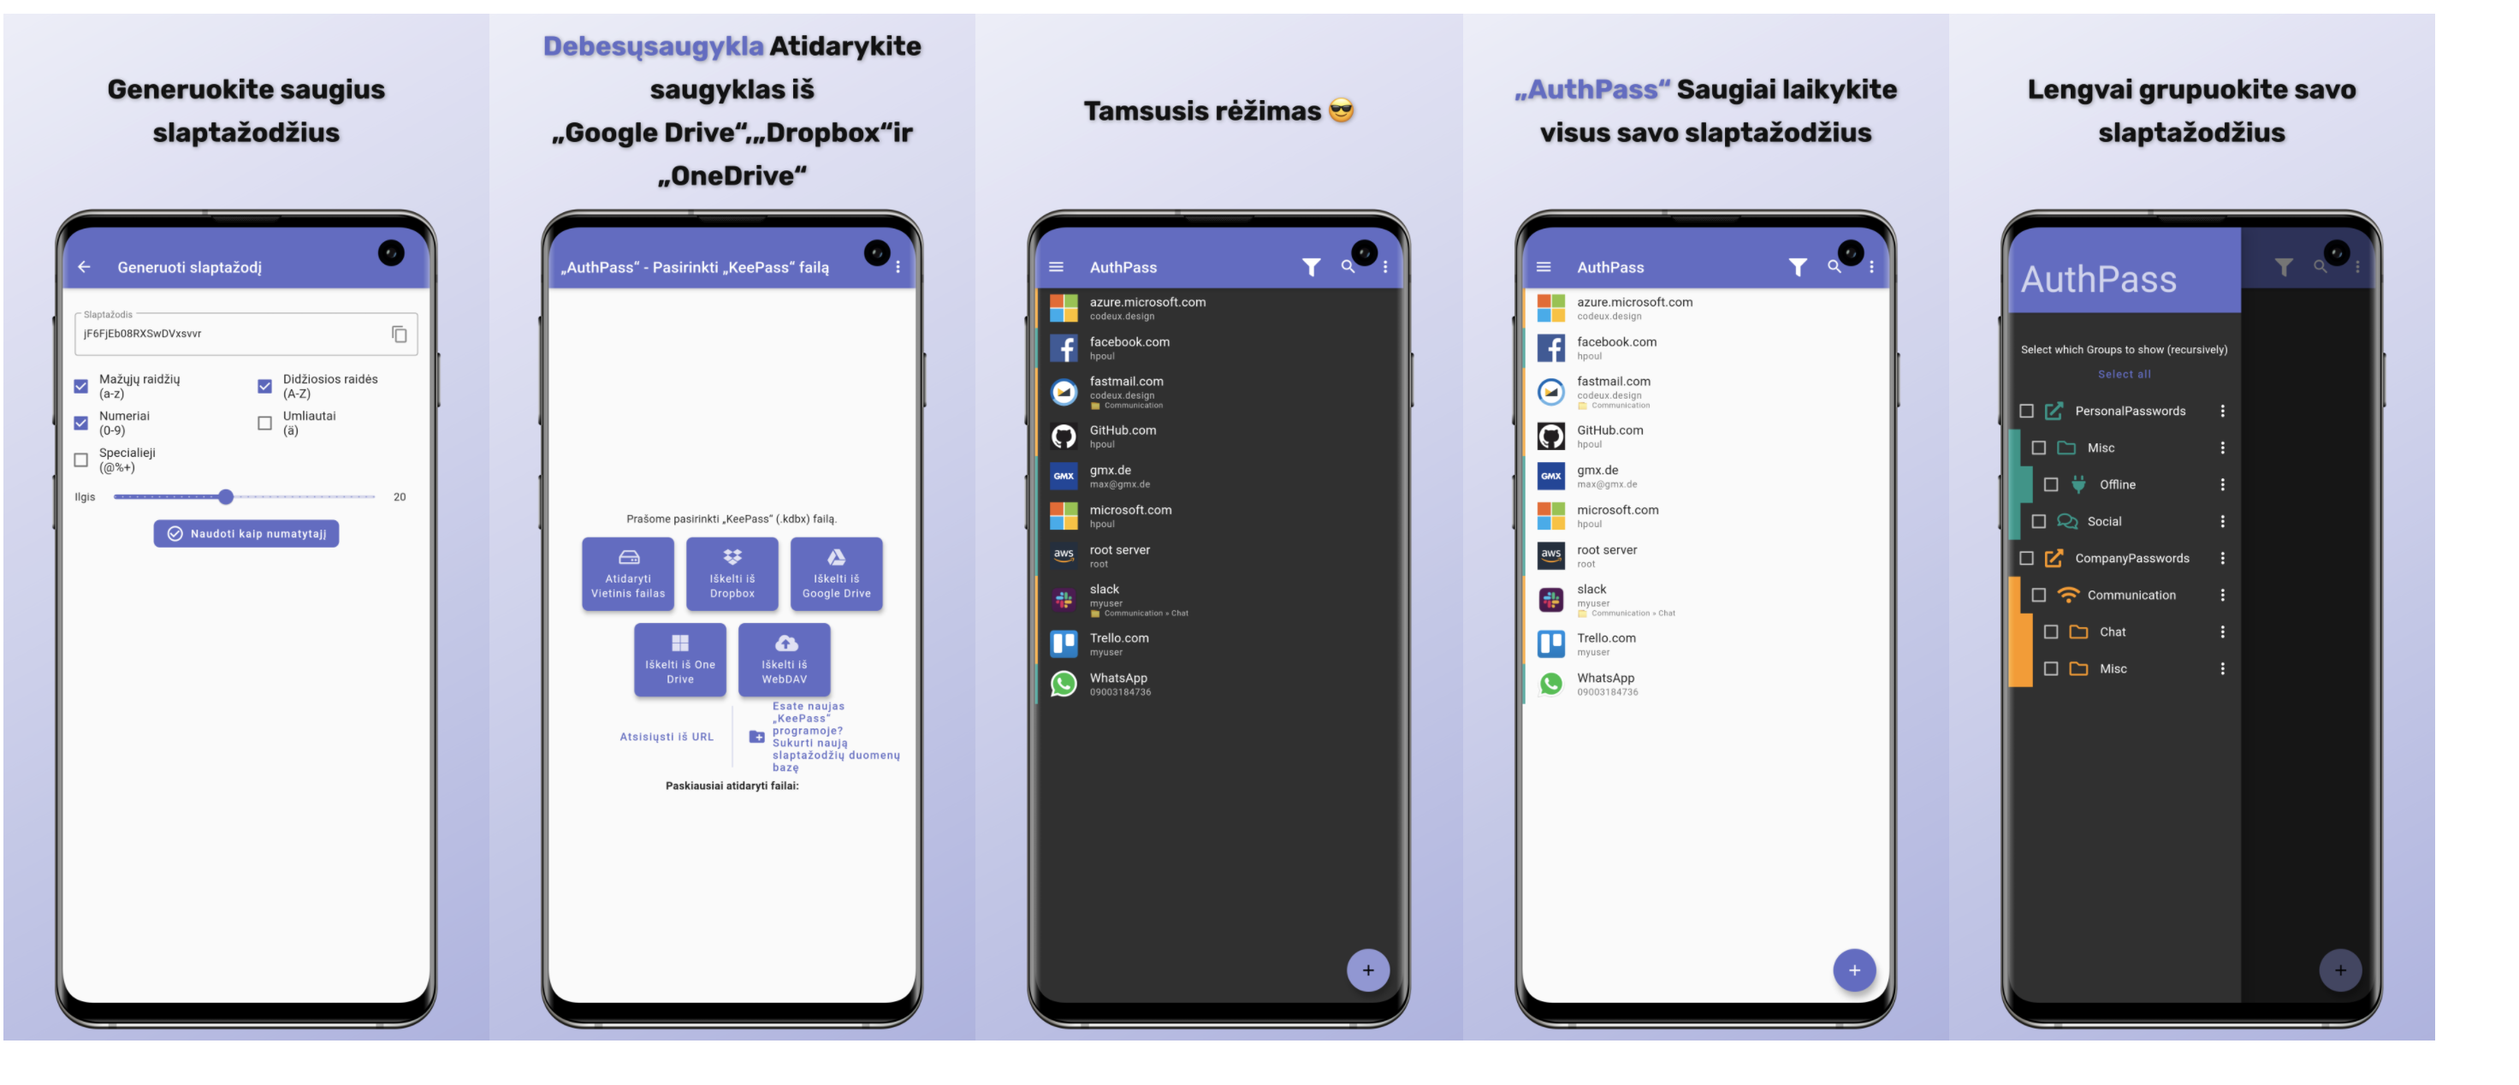
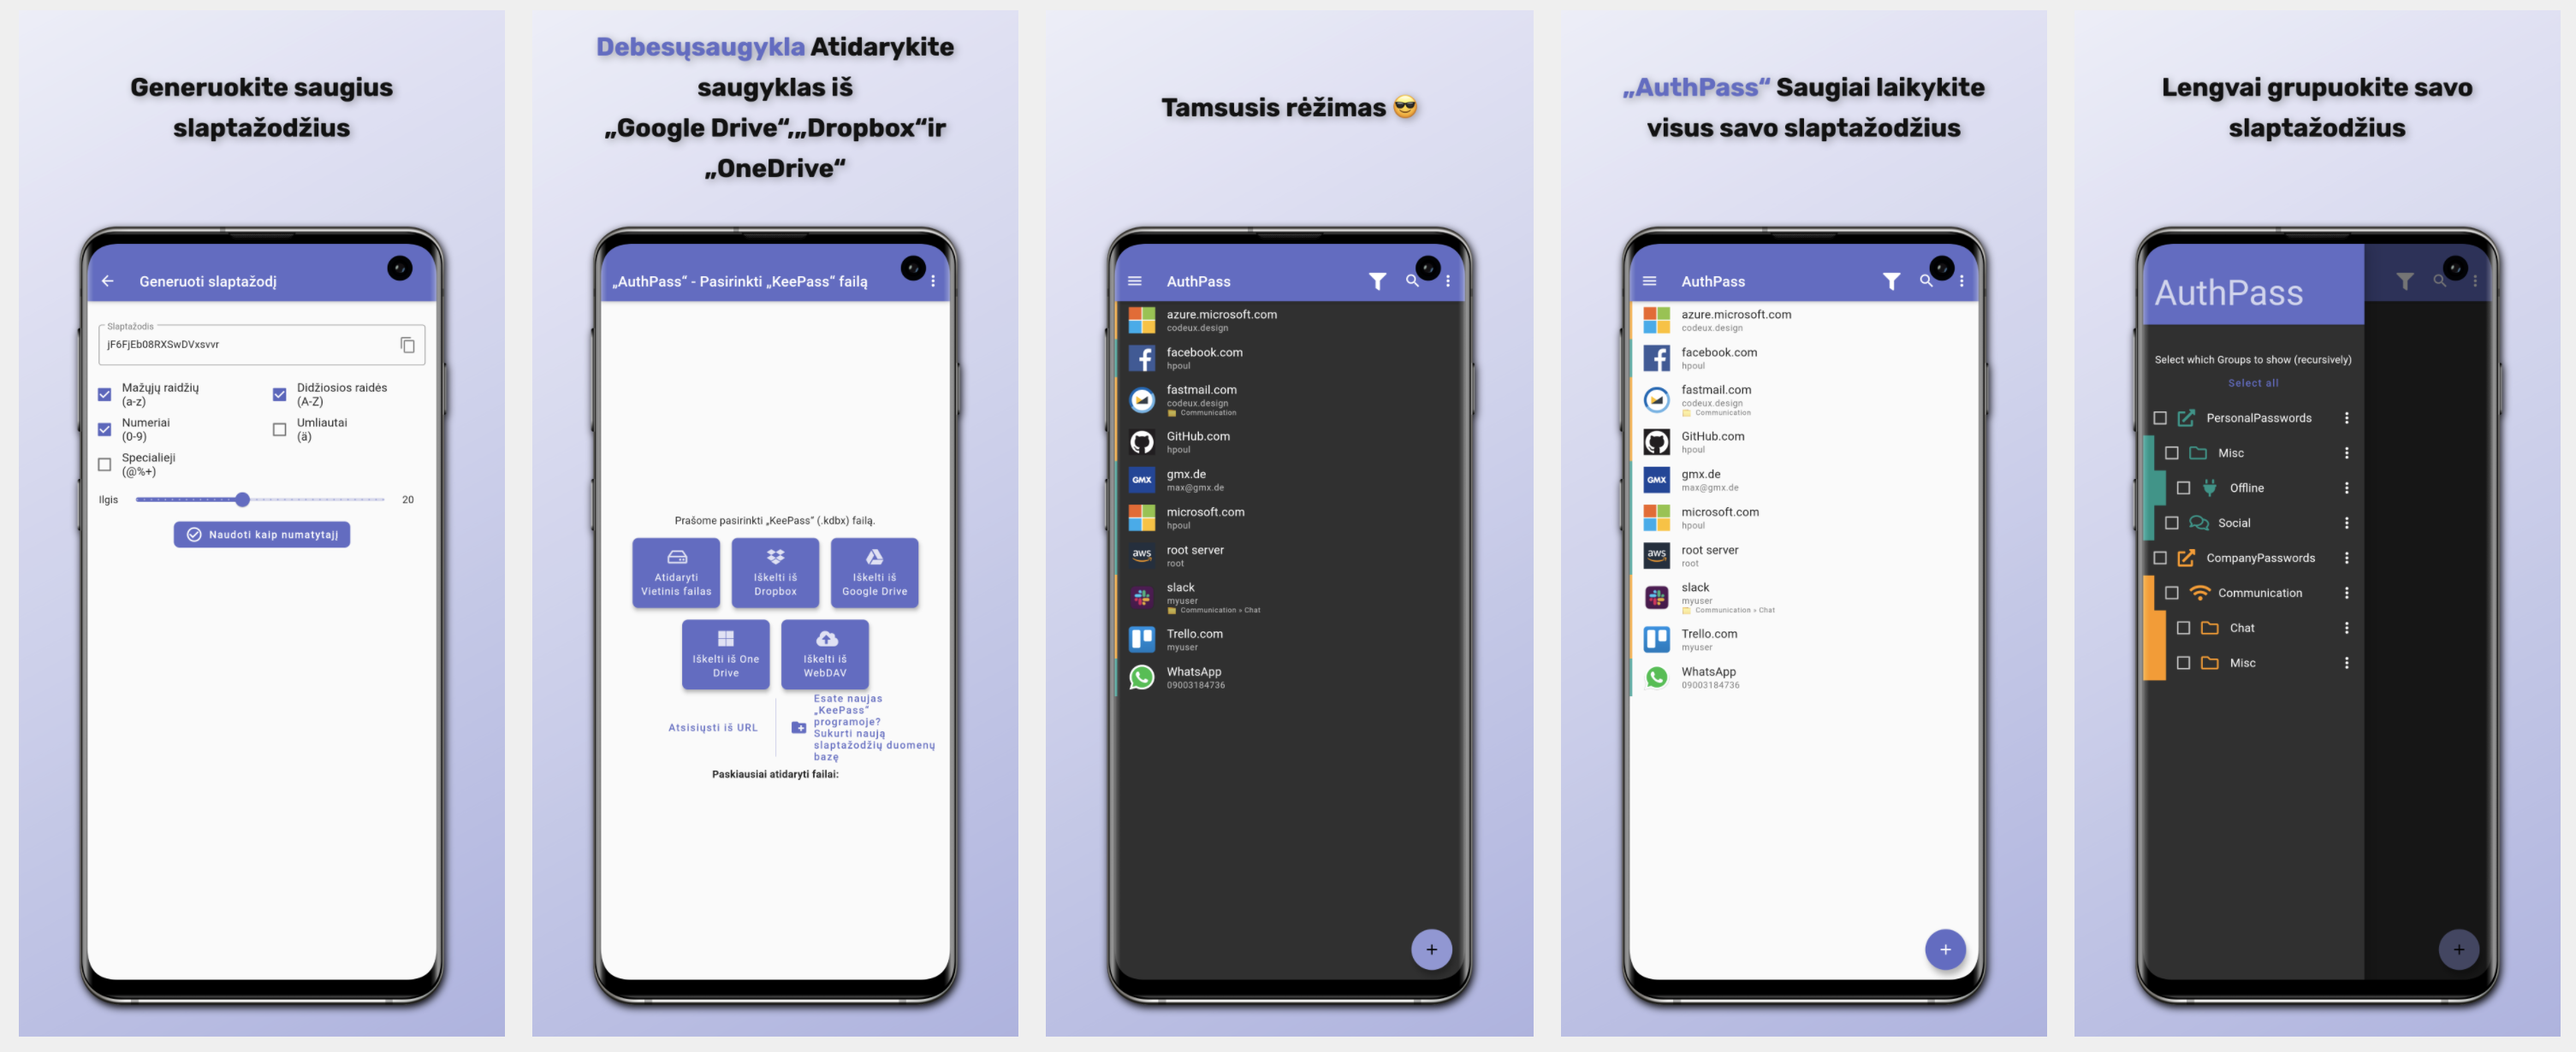
update present.html

diff --git a/lib/frame_process.dart b/lib/frame_process.dart
@@ -129,8 +129,10 @@ class FrameProcess {
     await File(path.join(outDir.path, '_present.html')).writeAsString('''
     <html lang="en"><head><title>present me</title>
     <style>
+      body { background-color: #efefef; }
       img {
-      max-height: 600px;
+        max-height: 600px;
+        margin-left: 16px;
       }
     </style>
     </head>
